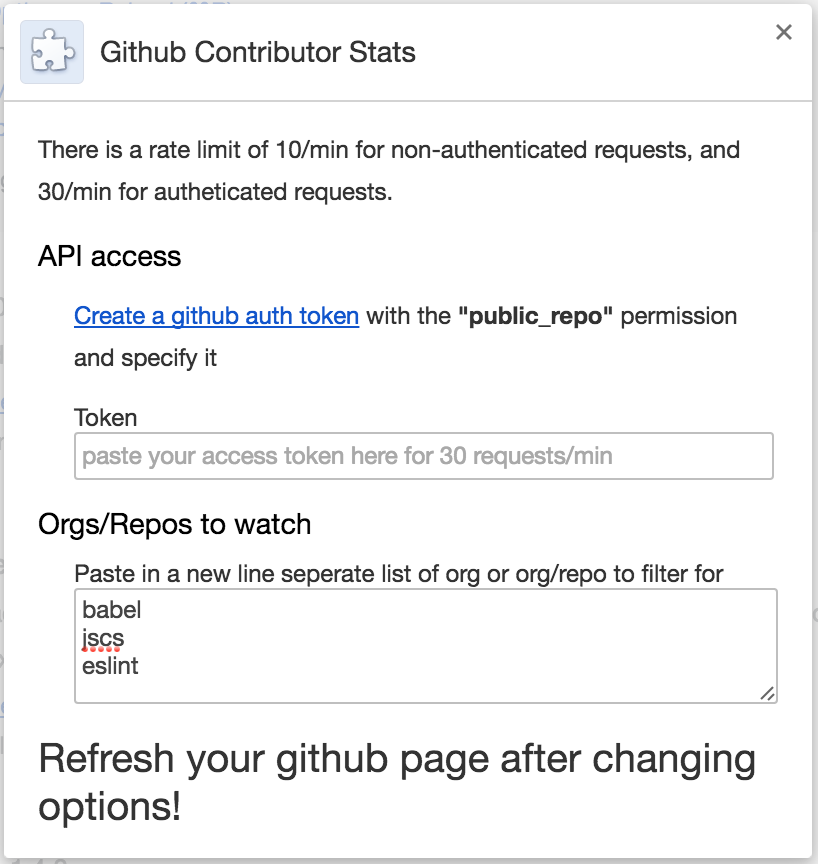
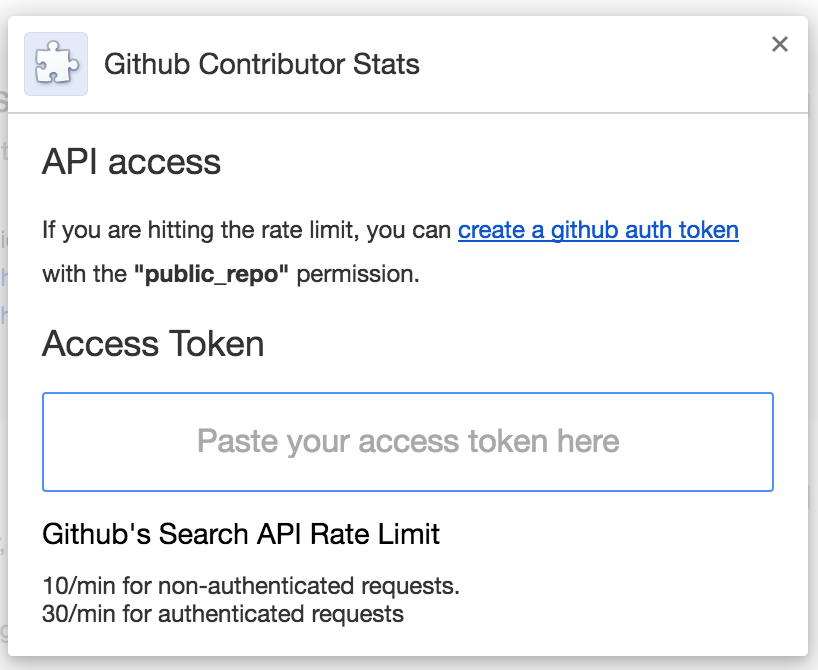
Just remove the repos options to simplify usage

diff --git a/src/options.html b/src/options.html
@@ -5,29 +5,26 @@
     <title>Github Contributor Stats</title>
     <style>
       input[type='text'] {
-        width: 350px;
-      }
-      textarea {
-        width: 350px;
+        width: 100%;
+        height: 50px;
+        font-size: 16px;
+        text-align: center;
       }
     </style>
     <script src="storage.js"></script>
     <script src="options.js"></script>
   </head>
   <body>
-    <p>
-      Github's Search API Rate Limit: 10/min for non-authenticated requests and 30/min for authenticated requests.
-    </p>
     <section>
-      <h3>API access</h3>
-      <p class="description"><a id="gh_link" href="https://github.com/settings/tokens/new?scopes=public_repo&description=Github Contributor Stats" target="gh_target">Create a github auth token</a> with the <strong>"public_repo"</strong> permission</p>
-      <label for="oauth_token">Token</label>
-      <input type="text" id="oauth_token" placeholder="Paste your access token here for 30 requests/min">
+      <h1>API access</h1>
+      <p class="description">If you are hitting the rate limit, you can <a id="gh_link" href="https://github.com/settings/tokens/new?scopes=public_repo&description=Github Contributor Stats" target="gh_target">create a github auth token</a> with the <strong>"public_repo"</strong> permission.</p>
+      <h1>Access Token</h1>
+      <input type="text" id="token-input" placeholder="Paste your access token here">
     </section>
+    <h3>Github's Search API Rate Limit</h3>
     <section>
-      <h3>Orgs/Repos</h3>
-      <label for="repos">If you don't want to run this on every repo</label>
-      <textarea rows="4" id="repos" placeholder="Seperate each org or org/repo by newlines"></textarea>
+      <div>10/min for non-authenticated requests.</div>
+      <div>30/min for authenticated requests</div>
     </section>
   </body>
 </html>

diff --git a/src/index.js b/src/index.js
@@ -121,45 +121,23 @@ function addContributorInfo(text) {
 }
 
 function update() {
-  getSyncStorage({ repos: "" })
+  getStorage(CONTRIBUTOR, ORG_REPO_PATH)
   .then((storage) => {
-    if (storage.repos) {
-      let storageRepos = storage.repos.split("\n");
-      return storageRepos.some((storageRepo) => {
-        if (storageRepo.indexOf("/") >= 0) {
-          return storageRepo.indexOf(ORG_REPO_PATH) >= 0;
-        } else {
-          return storageRepo.indexOf(ORG) >= 0;
-        }
-      });
+    let storageRes = storage[CONTRIBUTOR][ORG_REPO_PATH];
+    if (storageRes.prs) {
+      showInfo(storageRes);
     } else {
-      return true;
-    }
-  })
-  .then((shouldShow) => {
-    if (shouldShow) {
-      getStorage(CONTRIBUTOR, ORG_REPO_PATH)
-      .then((storage) => {
-        let storageRes = storage[`user:${CONTRIBUTOR}`][ORG_REPO_PATH];
-        if (storageRes.prs) {
-          showInfo(storageRes);
-        } else {
-          getSyncStorage({ "access_token": null })
-          .then((res) => {
-            prCount(res.access_token)
-            .then((repoInfo) => {
-              if (repoInfo.errors) {
-                addContributorInfo(repoInfo.errors[0].message);
-                return;
-              }
-              showInfo(repoInfo);
-            });
-          });
-        }
+      getSyncStorage({ "access_token": null })
+      .then((res) => {
+        prCount(res.access_token)
+        .then((repoInfo) => {
+          if (repoInfo.errors) {
+            addContributorInfo(repoInfo.errors[0].message);
+            return;
+          }
+          showInfo(repoInfo);
+        });
       });
-    } else {
-      let linkNode = document.querySelector("#gce-num-prs");
-      linkNode.text = "[Filtered Repo]";
     }
   });
 }

diff --git a/src/options.js b/src/options.js
@@ -1,20 +1,14 @@
 /* global getSyncStorage, setSyncStorage */
 
 document.addEventListener("DOMContentLoaded", () => {
-  const oauthTokenInput = document.getElementById("oauth_token");
-  const reposInput = document.getElementById("repos");
+  const accessTokenInput = document.getElementById("token-input");
 
-  getSyncStorage({ "access_token": null, "repos": null })
-  .then(({ access_token, repos }) => {
-    if (access_token) oauthTokenInput.value = access_token;
-    if (repos) reposInput.value = repos;
+  getSyncStorage({ "access_token": null })
+  .then(({ access_token }) => {
+    if (access_token) accessTokenInput.value = access_token;
   });
 
-  oauthTokenInput.addEventListener("change", () => {
-    setSyncStorage({ "access_token": oauthTokenInput.value });
-  });
-
-  reposInput.addEventListener("change", () => {
-    setSyncStorage({ "repos": reposInput.value });
+  accessTokenInput.addEventListener("change", () => {
+    setSyncStorage({ "access_token": accessTokenInput.value });
   });
 });

diff --git a/src/storage.js b/src/storage.js
@@ -28,7 +28,7 @@ window.setSyncStorage = promisify(chrome.storage.sync.set.bind(chrome.storage.sy
 
 window.setStorage = (CONTRIBUTOR, ORG_REPO_PATH, value) => {
   return setSyncStorage({
-    [`user:${CONTRIBUTOR}`]: {
+    [CONTRIBUTOR]: {
       [ORG_REPO_PATH]: value
     }
   });
@@ -36,7 +36,7 @@ window.setStorage = (CONTRIBUTOR, ORG_REPO_PATH, value) => {
 
 window.getStorage = (CONTRIBUTOR, ORG_REPO_PATH) => {
   return getSyncStorage({
-    [`user:${CONTRIBUTOR}`]: {
+    [CONTRIBUTOR]: {
       [ORG_REPO_PATH]: {}
     }
   });

diff --git a/README.md b/README.md
@@ -22,9 +22,6 @@ You can click on `[Update PRs]` to update the number if it has changed (since th
 
 You may want to create or get a "access token" that uses the `public_repo` permission if you want to use a 30/min rate limit instead of 10/min (might not be necessary).
 
-If you don't want this to run on all repos, you can add some orgs or specific repos for this script to run on.
-- [ ] A potential feature request would be to run another request to automatically add all orgs of the user to the list.
-
 <img src="options.png" alt="options" width="400px" height="400px">
 
 #### Permissions
@@ -48,7 +45,7 @@ You should see
 
 Now try it out!
 
-You can also click on the Options to set your token and repos if you need to!
+You can also click on the Options to set your `access_token` if you need to!
 
 Used https://github.com/GoogleChrome/chrome-app-samples/tree/master/samples/github-auth, https://github.com/ekonstantinidis/gitify, https://github.com/sindresorhus/notifier-for-github-chrome for reference.
 
